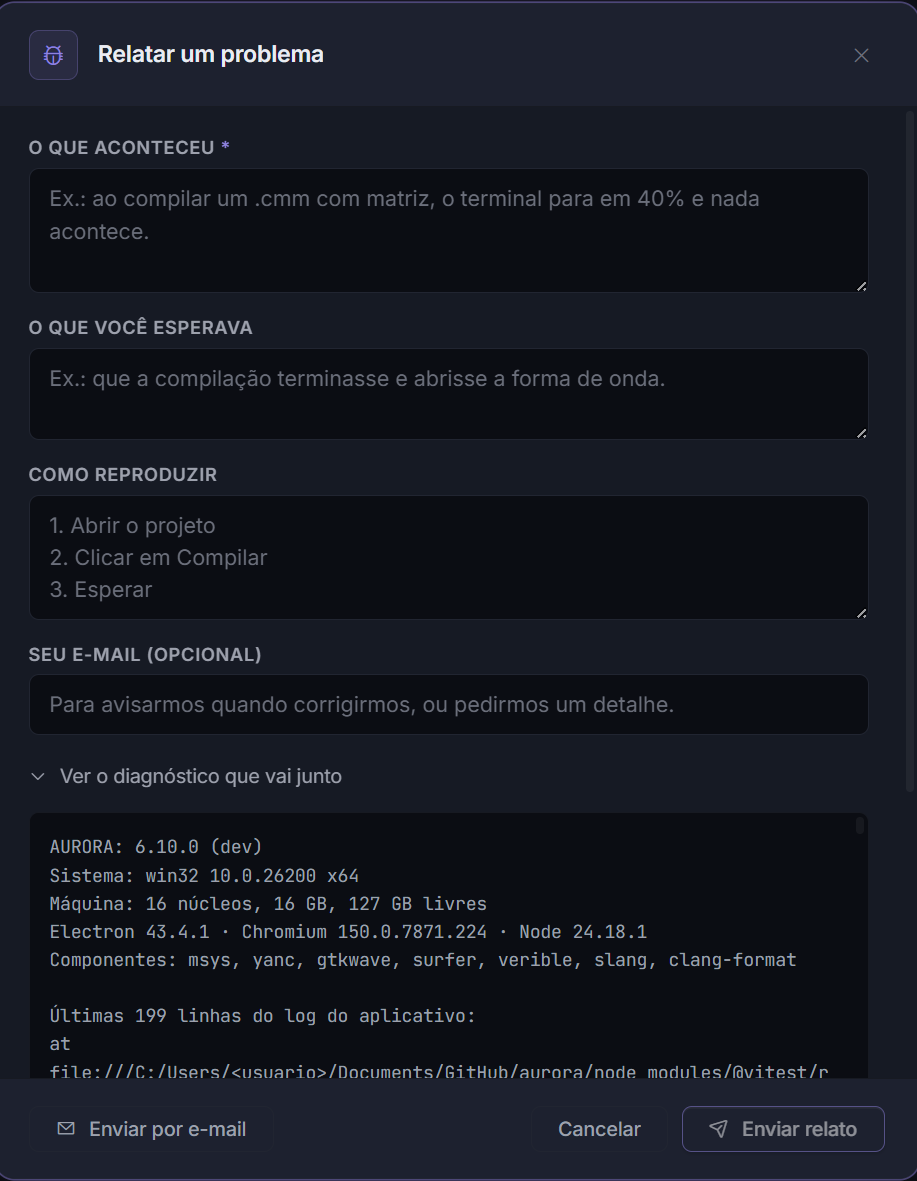
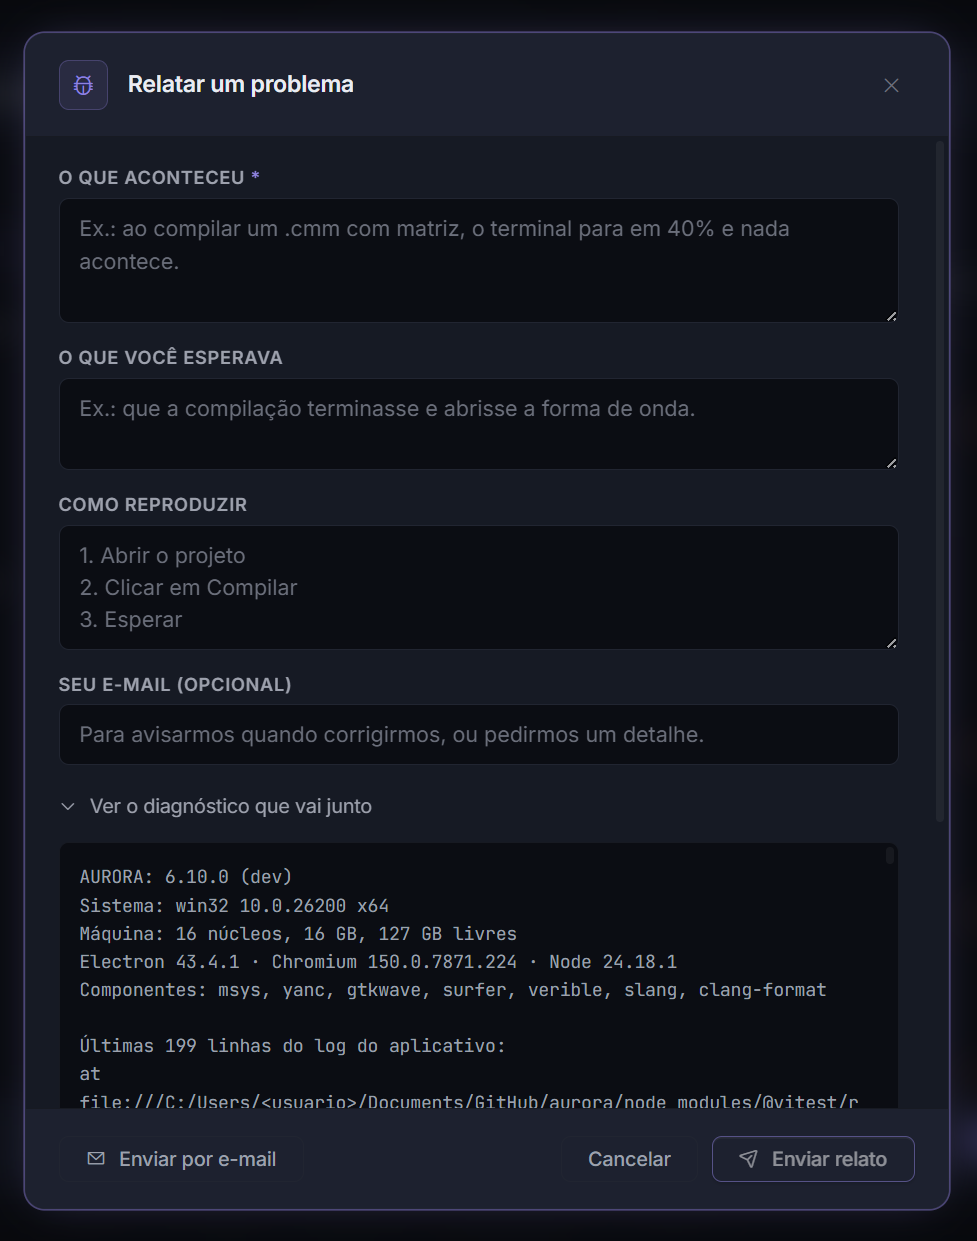
As bordas mortas saem de dezoito capturas, e cinco ganham respiro
Duas correcoes de sentido oposto. De um lado, capturas que carregavam faixa
vazia: a de atalhos e a do manual traziam o preto da tela em cima e embaixo
do modal, a de novo projeto encolheu 66%, e a arvore de arquivos tinha um
terco de nada embaixo. O criterio nao e a faixa ser escura, e sim nao ter
nada: cada linha e comparada com a cor que mais aparece nela mesma.

Do outro lado, cinco capturas estavam rentes ao modal, sem respiro, e a do
relato cortava a barra de rolagem pela metade. Foram refeitas a partir do
original com margem de 30 px, que deixa a sombra e o canto arredondado a
vista.

diff --git a/IMAGENS.md b/IMAGENS.md
@@ -45,6 +45,26 @@ O capítulo de apoio ganhou uma seção sobre o ponto de interrogação dos moda
 - `aurora-ajuda-contextual.png`: o cabeçalho do modal de Configuração de Ondas, com o botão de ajuda e a dica "Abrir o capítulo do manual sobre formas de onda" à vista. Recorte de região.
 - `aurora-manual-na-aurora.png`: o que aquele botão abre, o manual na janela própria da AURORA, no capítulo de formas de onda, com busca e sumário. É a janela inteira do manual, 1803x1294.
 
+## Aparo das bordas, 31/08
+
+Uma segunda passada de enquadramento, agora em todas as capturas de uma vez.
+O critério não é "a faixa é escura", e sim "a faixa não tem nada": para cada
+linha, os pixels são comparados com a cor que mais aparece naquela mesma linha,
+o fundo local. Linha em que quase nenhum pixel se afasta desse fundo é faixa
+vazia, seja ela o preto da área de trabalho, o cinza de um painel ou o vazio
+dentro de um modal alto com pouca coisa dentro. Foi o caso da
+`aurora-settings-atalhos.png` e da `aurora-settings-manual.png`, que carregavam
+o preto da tela em cima e embaixo do modal, e da `aurora-novo-projeto.png`, que
+encolheu 66%.
+
+O sentido contrário também foi corrigido: cinco capturas estavam recortadas
+rentes ao modal, sem respiro, e a `aurora-relato.png` chegava a cortar a barra
+de rolagem pela metade. Foram refeitas a partir do original com margem de 30 px,
+que deixa a sombra e o canto arredondado à vista.
+
+Regra que ficou: margem de 24 px quando o corte é medido pelo conteúdo, 30 px
+quando o alvo é um modal inteiro. Rente nunca.
+
 ## Enquadramento
 
 Em 30/08, à noite, onze capturas foram reenquadradas. As de diagrama do PRISM saíam com a barra de título, a faixa de abas e um oceano de grade pontilhada em volta de um circuito pequeno; agora começam na trilha, que diz onde a pessoa está, e terminam logo depois do desenho. Os modais do Git-D saíam com a janela inteira ao redor. O corte foi medido, não chutado: um script acha onde o circuito começa e termina dentro do canvas (os botões de zoom, grudados na borda, ficam de fora da conta) e corta com margem fixa de 45 px. A `aurora-prism-media-movel.png` encolheu 91%, a `aurora-prism-divisor.png` 74%.
